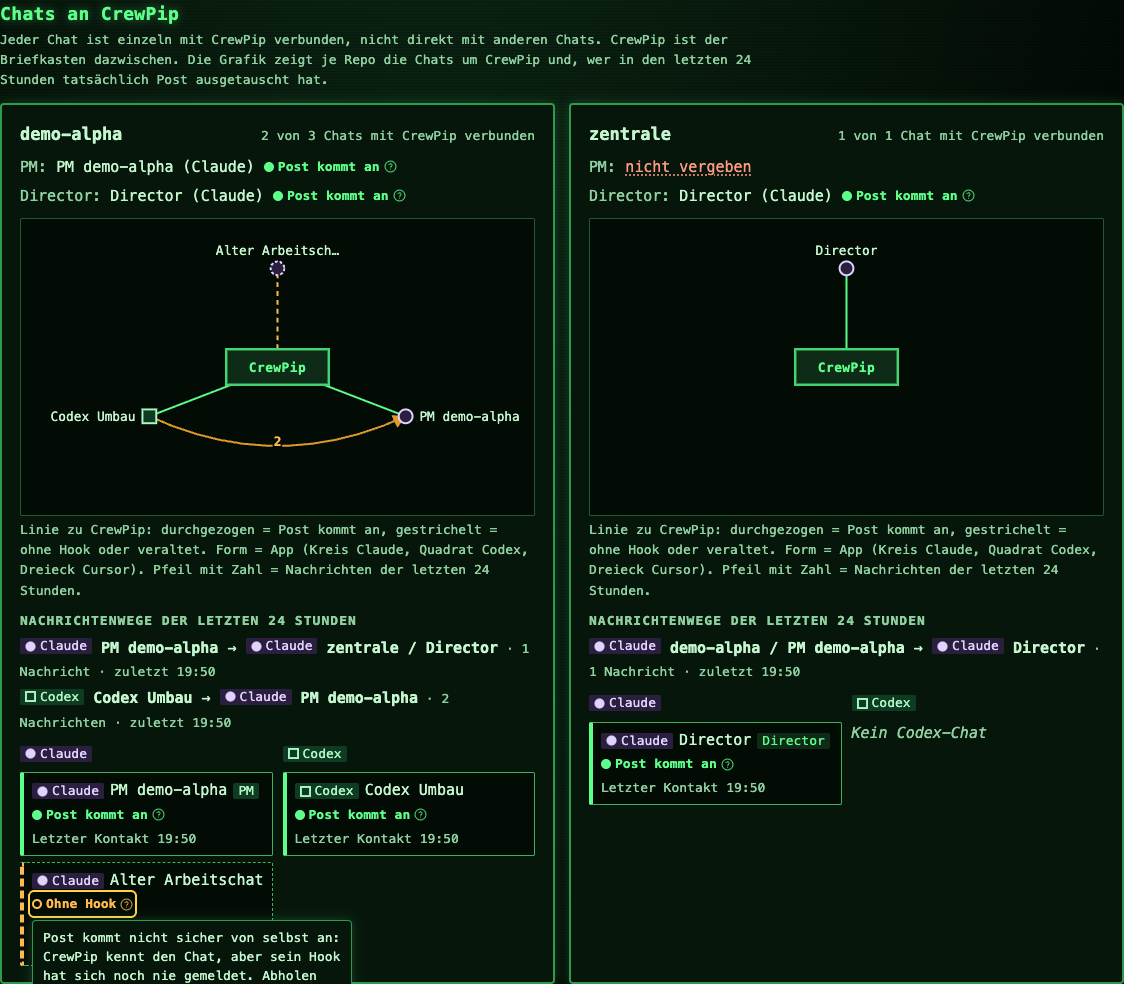
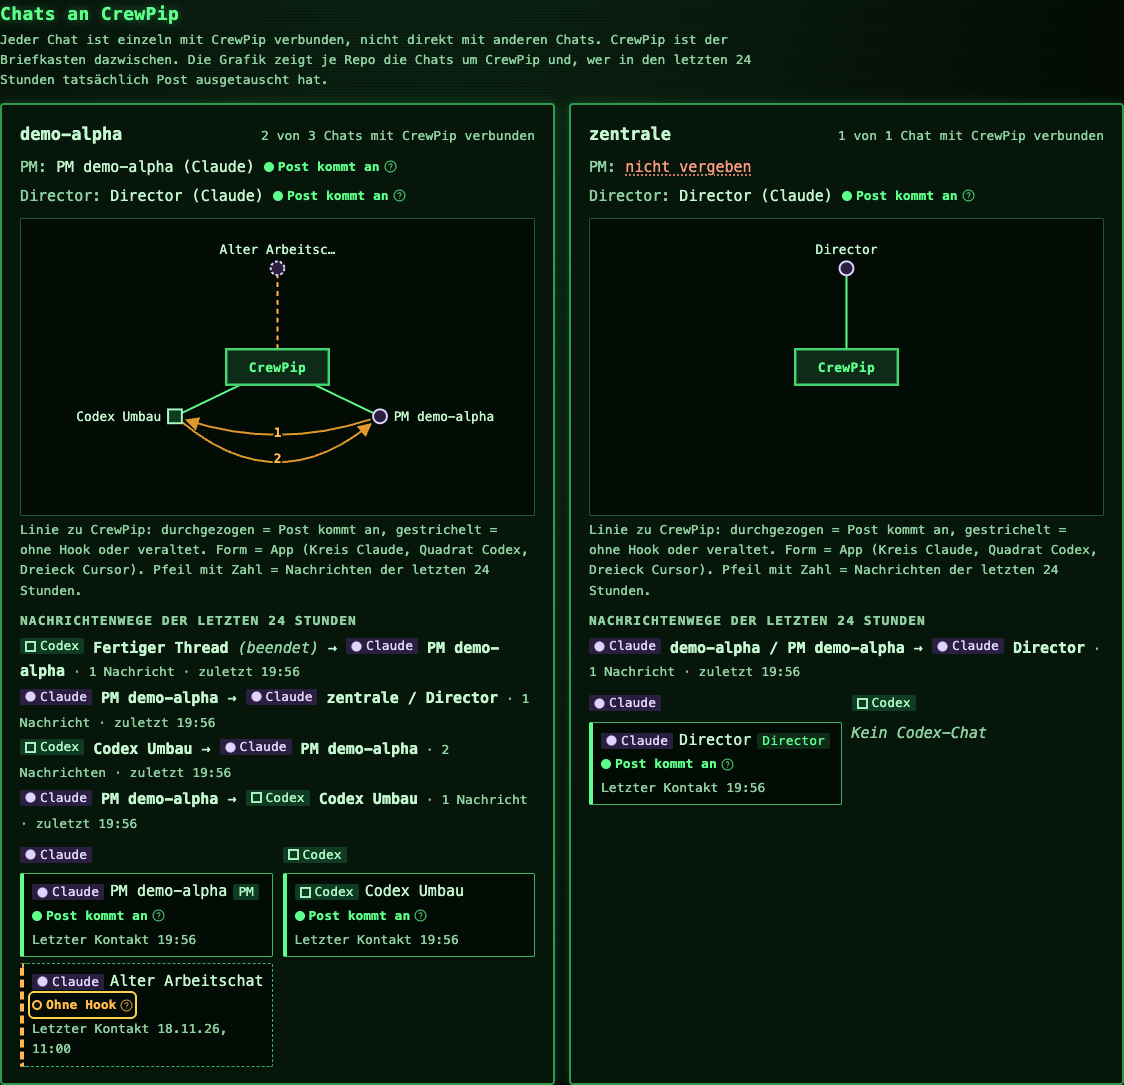
Review-Befunde: Kantenschlüssel, Hin- und Rückweg, gebündeltes Nachladen, beendete Chats, Tooltip mit Escape, scrollbare Grafik (#15)

diff --git a/apps/web/src/Connections.tsx b/apps/web/src/Connections.tsx
@@ -1,4 +1,4 @@
-import { useId } from "react";
+import { useId, useState } from "react";
 import { APP_LABELS, ROLE_LABELS, type AppKind, type MessageFlow, type Project, type Session } from "@crewpip/shared";
 import { CircleHelp } from "lucide-react";
 import { useBoardLanguage } from "./language.tsx";
@@ -18,8 +18,11 @@ const time = (iso: string, locale: string) => {
 function StateBadge({ session }: { session: Session }) {
   const { ui } = useBoardLanguage();
   const id = `conn-hint-${useId().replace(/[^\w-]/g, "")}`;
-  return <span className="conn-state-wrap">
-    <span tabIndex={0} className={`conn-state conn-${session.connection}`} aria-describedby={id}><i aria-hidden="true" />{ui.connectionState[session.connection]}<CircleHelp size={13} aria-hidden="true" /></span>
+  // Escape blendet die Erklärung aus (WCAG 1.4.13); beim nächsten Fokus oder Hovern ist sie wieder da.
+  const [hidden, setHidden] = useState(false);
+  return <span className={`conn-state-wrap ${hidden ? "tip-hidden" : ""}`} onMouseLeave={() => setHidden(false)}>
+    <span tabIndex={0} className={`conn-state conn-${session.connection}`} aria-describedby={id}
+      onKeyDown={e => { if (e.key === "Escape") setHidden(true); }} onBlur={() => setHidden(false)}><i aria-hidden="true" />{ui.connectionState[session.connection]}<CircleHelp size={13} aria-hidden="true" /></span>
     <span role="tooltip" id={id} className="conn-tip">{ui.connectionHint[session.connection]}</span>
   </span>;
 }
@@ -41,28 +44,40 @@ const short = (s: string, n = 15) => s.length > n ? `${s.slice(0, n - 1)}…` : 
 function StarGraph({ name, sessions, flows }: { name: string; sessions: Session[]; flows: MessageFlow[] }) {
   const { ui } = useBoardLanguage();
   const W = 520, H = 300, cx = W / 2, cy = H / 2, rx = 120, ry = 100;
+  // Ab neun Chats abwechselnd auf zwei Ringen, damit Symbole und Namen nicht übereinander liegen.
+  const twoRings = sessions.length > 8;
   const pos = new Map(sessions.map((s, i) => {
     const a = -Math.PI / 2 + (2 * Math.PI * i) / Math.max(sessions.length, 1);
-    return [s.id, { x: cx + rx * Math.cos(a), y: cy + ry * Math.sin(a), a }];
+    const f = twoRings && i % 2 ? 0.62 : 1;
+    return [s.id, { x: cx + rx * f * Math.cos(a), y: cy + ry * f * Math.sin(a), a }];
   }));
-  const edges = flows.filter(f => f.from.kind === "session" && pos.has(f.from.id) && pos.has(f.to.id) && f.from.id !== f.to.id);
+  const edges = flows.flatMap(f => f.from.kind === "session" && pos.has(f.from.id) && pos.has(f.to.id) && f.from.id !== f.to.id ? [{ from: f.from.id, to: f.to.id, count: f.count }] : []);
+  const pairs = new Set(edges.map(e => `${e.from}>${e.to}`));
   const markerId = `arrow-${useId().replace(/[^\w-]/g, "")}`;
-  return <div className="graph-scroll"><svg className="conn-graph" viewBox={`0 0 ${W} ${H}`} role="img" aria-label={ui.graphLabel(name, sessions.length, edges.length)}>
+  return <div className="graph-scroll" tabIndex={0} role="group" aria-label={ui.graphScroll}><svg className="conn-graph" viewBox={`0 0 ${W} ${H}`} role="img" aria-label={ui.graphLabel(name, sessions.length, edges.length)}>
     <defs><marker id={markerId} viewBox="0 0 10 10" refX="9" refY="5" markerWidth="7" markerHeight="7" orient="auto-start-reverse"><path d="M0,0 L10,5 L0,10 z" className="graph-arrow" /></marker></defs>
     {sessions.map(s => { const p = pos.get(s.id)!; return <line key={s.id} className={`graph-spoke conn-${s.connection}`} x1={cx} y1={cy} x2={p.x} y2={p.y} />; })}
-    {edges.map(f => {
-      const a = pos.get(f.from.kind === "session" ? f.from.id : "")!, b = pos.get(f.to.id)!;
+    {edges.map(e => {
+      const a = pos.get(e.from)!, b = pos.get(e.to)!;
       const mx = (a.x + b.x) / 2, my = (a.y + b.y) / 2;
-      let dx = mx - cx, dy = my - cy;
-      const len = Math.hypot(dx, dy);
-      // Bogen nach außen, damit er nicht durch die Nabe läuft; gegenüberliegende Chats: seitlich.
-      const opposite = len < 20;
-      if (opposite) { dx = -(b.y - a.y); dy = b.x - a.x; }
-      const k = (opposite ? 110 : 60) / (Math.hypot(dx, dy) || 1);
-      const qx = mx + dx * k, qy = my + dy * k;
-      return <g key={`${a.x},${b.x},${f.to.id}`} className="graph-edge">
-        <path d={`M${a.x},${a.y} Q${qx},${qy} ${b.x},${b.y}`} markerEnd={`url(#${markerId})`} />
-        <text x={(mx + qx) / 2} y={(my + qy) / 2} className="graph-count">{f.count}</text>
+      // Gemeinsame Normale je Paar (unabhängig von der Richtung); Hin- und Rückweg liegen auf
+      // verschiedenen Seiten, damit sich Bögen und Zahlen nicht verdecken.
+      const [p, q] = e.from < e.to ? [a, b] : [b, a];
+      const dl = Math.hypot(q.x - p.x, q.y - p.y) || 1;
+      const nx = -(q.y - p.y) / dl, ny = (q.x - p.x) / dl;
+      const side = pairs.has(`${e.to}>${e.from}`) ? (e.from < e.to ? 1 : -1) : 0;
+      let ox = mx - cx, oy = my - cy;
+      const ol = Math.hypot(ox, oy);
+      let bend: number;
+      if (ol < 20) { ox = nx; oy = ny; bend = 110 * (side || 1); }
+      else { ox /= ol; oy /= ol; bend = 60; }
+      const qx = mx + ox * bend + nx * side * 26, qy = my + oy * bend + ny * side * 26;
+      // Anfang und Ende vor dem Knotensymbol, damit die Pfeilspitze sichtbar bleibt.
+      const cut = (from: { x: number; y: number }, by: number) => { const l = Math.hypot(qx - from.x, qy - from.y) || 1; return { x: from.x + ((qx - from.x) / l) * by, y: from.y + ((qy - from.y) / l) * by }; };
+      const s0 = cut(a, 10), s1 = cut(b, 12);
+      return <g key={`${e.from}>${e.to}`} className="graph-edge">
+        <path d={`M${s0.x},${s0.y} Q${qx},${qy} ${s1.x},${s1.y}`} markerEnd={`url(#${markerId})`} />
+        <text x={(mx + qx) / 2} y={(my + qy) / 2 + 4} className="graph-count">{e.count}</text>
       </g>;
     })}
     <g className="graph-hub"><rect x={cx - 52} y={cy - 18} width={104} height={36} /><text x={cx} y={cy + 5}>CrewPip</text></g>
@@ -78,10 +93,10 @@ function StarGraph({ name, sessions, flows }: { name: string; sessions: Session[
   </svg></div>;
 }
 
-function FlowEnd({ end, projectId }: { end: MessageFlow["from"] | MessageFlow["to"]; projectId: string }) {
+function FlowEnd({ end, projectId, live }: { end: MessageFlow["from"] | MessageFlow["to"]; projectId: string; live: Set<string> }) {
   const { ui } = useBoardLanguage();
   if ("kind" in end && end.kind === "human") return <span className="flow-end"><span className="badge app-human">{ui.person}</span> {end.name}</span>;
-  return <span className="flow-end"><AppMark app={end.app} /> <strong>{end.projectId === projectId ? end.name : `${end.project} / ${end.name}`}</strong></span>;
+  return <span className="flow-end"><AppMark app={end.app} /> <strong>{end.projectId === projectId ? end.name : `${end.project} / ${end.name}`}</strong>{!live.has(end.id) && <em className="flow-ended"> ({ui.flowEnded})</em>}</span>;
 }
 
 /**
@@ -91,6 +106,7 @@ function FlowEnd({ end, projectId }: { end: MessageFlow["from"] | MessageFlow["t
 export function Connections({ sessions, projects, projectId, flows }: { sessions: Session[]; projects: Project[]; projectId: string | null; flows: MessageFlow[] }) {
   const { ui, locale } = useBoardLanguage();
   const live = sessions.filter(s => s.connection !== "ended");
+  const liveIds = new Set(live.map(s => s.id));
   const director = live.filter(s => s.role === "director").sort((a, b) => STATE_ORDER[a.connection] - STATE_ORDER[b.connection])[0];
   const groups = new Map<string, { name: string; sessions: Session[] }>();
   for (const s of live) {
@@ -119,7 +135,7 @@ export function Connections({ sessions, projects, projectId, flows }: { sessions
           <div className="conn-flows"><h4>{ui.flowsTitle}</h4>
             {mine.length
               ? <ul aria-label={ui.flowsTitle}>{mine.map(f => <li key={`${f.from.kind === "session" ? f.from.id : f.from.name}>${f.to.id}`}>
-                  <FlowEnd end={f.from} projectId={id} /> <span aria-hidden="true">→</span><span className="sr-only">{ui.flowTo}</span> <FlowEnd end={f.to} projectId={id} />
+                  <FlowEnd end={f.from} projectId={id} live={liveIds} /> <span aria-hidden="true">→</span><span className="sr-only">{ui.flowTo}</span> <FlowEnd end={f.to} projectId={id} live={liveIds} />
                   <span className="flow-meta"> · {ui.flowCount(f.count)} · {ui.flowLast} {time(f.lastAt, locale)}</span>
                 </li>)}</ul>
               : <p className="conn-empty">{ui.noFlows}</p>}

diff --git a/apps/daemon/test/browser/connections-graph.ts b/apps/daemon/test/browser/connections-graph.ts
@@ -40,6 +40,13 @@ before(async () => {
   inbox.post({ sessionId: "cx" }, "pm:demo-alpha", "geheimer Befundtext");
   inbox.post({ sessionId: "cx" }, "pm:demo-alpha", "zweiter Befund");
   inbox.take("pm", "hook-prompt");
+  // Antwort zurück (Hin- und Rückweg) und ein inzwischen beendeter Chat mit Weg zum PM.
+  inbox.post({ sessionId: "pm" }, "session:cx", "Antwort");
+  inbox.take("cx", "hook-stop");
+  inbox.upsertSession({ id: "gone", app: "codex", cwd: "/nirgends/demo-alpha", name: "Fertiger Thread" });
+  inbox.post({ sessionId: "gone" }, "pm:demo-alpha", "erledigt");
+  inbox.take("pm", "hook-prompt");
+  inbox.endSession("gone");
   inbox.post({ sessionId: "pm" }, "director", "Stand");
   inbox.take("dir", "mcp-read");
   daemon = createDaemon(inbox, board, runner, {
@@ -53,6 +60,8 @@ after(async () => { await browser?.close(); await daemon?.close(); });
 
 test("Übersicht: Verbindung zu CrewPip, Anbieter erkennbar, Zustände erklärt, Nachrichtenwege", async () => {
   const page = await browser.newPage({ locale: "de-AT", viewport: { width: 1440, height: 1600 } });
+  const consoleErrors: string[] = [];
+  page.on("console", m => { if (m.type() === "error") consoleErrors.push(m.text()); });
   try {
     await page.goto(url);
     const panel = page.getByRole("region", { name: "Chats an CrewPip" });
@@ -71,13 +80,18 @@ test("Übersicht: Verbindung zu CrewPip, Anbieter erkennbar, Zustände erklärt,
     const svg = await graph.innerHTML();
     assert.match(svg, />CrewPip</);
     assert.equal(await graph.locator(".graph-spoke").count(), 3, "eine Speiche je Chat");
-    assert.equal(await graph.locator(".graph-edge").count(), 1, "eine Kante für den Weg innerhalb des Repos");
+    assert.equal(await graph.locator(".graph-edge").count(), 2, "Hin- und Rückweg innerhalb des Repos, der beendete Chat ohne Knoten");
+    const paths = await graph.locator(".graph-edge path").evaluateAll(els => els.map(e => e.getAttribute("d")));
+    const labels = await graph.locator(".graph-count").evaluateAll(els => els.map(e => `${e.getAttribute("x")},${e.getAttribute("y")}`));
+    assert.notEqual(paths[0], paths[1], "Hin- und Rückweg verdecken sich nicht");
+    assert.notEqual(labels[0], labels[1], "Zahlen von Hin- und Rückweg liegen nicht übereinander");
 
     // Liste der Wege: Absender, Empfänger, Anzahl, letzter Zeitpunkt, kein Inhalt.
     const flows = alpha.getByRole("list", { name: "Nachrichtenwege der letzten 24 Stunden" });
     const text = await flows.innerText();
     assert.match(text, /Codex Umbau[\s\S]*→[\s\S]*PM demo-alpha[\s\S]*2 Nachrichten[\s\S]*zuletzt/);
     assert.match(text, /PM demo-alpha[\s\S]*→[\s\S]*Director[\s\S]*1 Nachricht/, "Weg zum Director in ein anderes Repo");
+    assert.match(text, /Fertiger Thread \(beendet\)[\s\S]*→[\s\S]*PM demo-alpha/, "Weg eines beendeten Chats ist markiert");
     assert.doesNotMatch(await page.locator("main").innerText(), /geheimer Befundtext/);
 
     // Anbieter: Name und Form, nicht nur Farbe.
@@ -97,6 +111,9 @@ test("Übersicht: Verbindung zu CrewPip, Anbieter erkennbar, Zustände erklärt,
     const tip = page.locator(`#${await state.getAttribute("aria-describedby")}`);
     assert.match(await tip.innerText(), /Post kommt nicht sicher von selbst an/);
     assert.equal(await tip.isVisible(), true, "Erklärung sichtbar bei Fokus");
+    await page.keyboard.press("Escape");
+    assert.equal(await tip.isVisible(), false, "Escape blendet die Erklärung aus");
+    assert.equal(await alpha.locator(".graph-scroll").getAttribute("tabindex"), "0", "Grafik per Tastatur scrollbar");
     const pm = alpha.locator(".conn-apps").getByRole("listitem").filter({ hasText: "PM demo-alpha" });
     assert.match(await pm.innerText(), /Post kommt an/);
 
@@ -106,5 +123,6 @@ test("Übersicht: Verbindung zu CrewPip, Anbieter erkennbar, Zustände erklärt,
     await en.waitFor();
     assert.match(await en.innerText(), /Messages arrive/);
     assert.match(await en.getByRole("group", { name: "demo-alpha" }).getByRole("list", { name: "Message paths in the last 24 hours" }).innerText(), /2 messages/);
+    assert.deepEqual(consoleErrors.filter(e => /key/i.test(e)), [], "keine doppelten React-Schlüssel");
   } finally { await page.close(); }
 });

diff --git a/apps/web/src/App.tsx b/apps/web/src/App.tsx
@@ -72,18 +72,27 @@ function Board() {
 
   useEffect(() => {
     let closed = false;
+    let flowTimer: ReturnType<typeof setTimeout> | undefined;
+    let flowSeq = 0;
     let ws: WebSocket | null = null;
     let retry: ReturnType<typeof setTimeout>;
     async function refresh() {
+      const seq = ++flowSeq;
       try {
         const urls = ["/api/messages", "/api/sessions", "/api/tasks?status=open,claimed,review,done,cancelled", "/api/projects", "/api/runs", "/api/flows"];
         const [m, s, t, p, r, f] = await Promise.all(urls.map(async url => { const res = await api(url); if (!res.ok) throw new Error(`Daten konnten nicht geladen werden (${res.status}).`); return res.json(); }));
-        if (!closed) { setMessages(m); setSessions(s); setTasks(t); setProjects(p); setRuns(r); setFlows(f); setLoaded(true); }
+        if (!closed) { setMessages(m); setSessions(s); setTasks(t); setProjects(p); setRuns(r); if (seq === flowSeq) setFlows(f); setLoaded(true); }
       } catch (e) { if (!closed) setError(`${e instanceof Error ? e.message : "Verbindung fehlgeschlagen."} Bitte die Seite neu laden.`); }
     }
     // Nachrichtenwege der letzten 24 Stunden: neu holen bei jeder Zustellung und beim Abgleich.
-    async function loadFlows() {
-      try { const res = await api("/api/flows"); if (res.ok && !closed) setFlows(await res.json()); } catch { /* Anzeige bleibt beim letzten Stand. */ }
+    // Gebündelt: Eine Abholung verbucht bis zu 50 Zustellungen einzeln, geladen wird einmal.
+    // Die Nummer verwirft Antworten, die eine neuere Anfrage überholt hat.
+    function loadFlows() {
+      clearTimeout(flowTimer);
+      flowTimer = setTimeout(async () => {
+        const seq = ++flowSeq;
+        try { const res = await api("/api/flows"); const f = res.ok ? await res.json() : null; if (f && !closed && seq === flowSeq) setFlows(f); } catch { /* Anzeige bleibt beim letzten Stand. */ }
+      }, 300);
     }
     const connect = () => {
       if (closed) return;
@@ -98,7 +107,7 @@ function Board() {
         if (e.type === "projects") setProjects(e.projects);
         if (e.type === "runs") setRuns(e.runs);
         if (e.type === "run-item") setLiveItems(m => ({ ...m, [e.runId]: [...(m[e.runId] ?? []), e.item] }));
-        if (e.type === "delivery") void loadFlows();
+        if (e.type === "delivery") loadFlows();
         if (e.type === "delivery") setMessages(m => m.map(x => x.id !== e.messageId || x.deliveries.some(d => d.sessionId === e.delivery.sessionId) ? x : { ...x, deliveries: [...x.deliveries, e.delivery], pending: x.pending.filter(p => p !== e.delivery.sessionLabel) }));
       };
     };
@@ -106,10 +115,10 @@ function Board() {
     // regelmäßig neu holen, damit "verbunden" nicht stehen bleibt, wenn eine App beendet wurde.
     const poll = setInterval(() => {
       void api("/api/sessions").then(res => res.ok ? res.json() : null).then(s => { if (s && !closed) setSessions(s); }).catch(() => {});
-      void loadFlows();
+      loadFlows();
     }, 30000);
     void refresh(); connect();
-    return () => { closed = true; clearTimeout(retry); clearInterval(poll); ws?.close(); };
+    return () => { closed = true; clearTimeout(retry); clearTimeout(flowTimer); clearInterval(poll); ws?.close(); };
   }, []);
   // CLI sign-in probes can take seconds. Do not block the overview on them.
   useEffect(() => {

diff --git a/apps/web/src/styles.css b/apps/web/src/styles.css
@@ -540,8 +540,13 @@ input, select, textarea { border-radius: 2px; border: 1px solid var(--border-str
 .conn-state:focus-visible { outline: 2px solid var(--focus); outline-offset: 2px; }
 .conn-tip { display: none; position: absolute; z-index: 20; left: 0; top: calc(100% + 6px); width: max-content; max-width: min(320px, 80vw);
   background: var(--panel); color: var(--text); border: 1px solid var(--frame); border-radius: 4px; padding: 8px 10px; font-size: 13px; font-weight: 400; line-height: 1.45; box-shadow: var(--glow); }
-.conn-state:hover + .conn-tip, .conn-state:focus + .conn-tip { display: block; }
+.conn-state-wrap:hover .conn-tip, .conn-state:focus + .conn-tip { display: block; }
+.conn-state-wrap.tip-hidden .conn-tip { display: none; }
+/* Brücke über den Abstand, damit die Erklärung beim Hinüberfahren mit der Maus offen bleibt. */
+.conn-tip::before { content: ""; position: absolute; left: 0; right: 0; top: -8px; height: 8px; }
 .conn-chat-head .app-mark { flex-shrink: 0; }
+.graph-scroll:focus-visible { outline: 2px solid var(--focus); outline-offset: 2px; }
+.flow-ended { color: var(--muted); }
 .graph-scroll { overflow-x: auto; margin: 6px 0 2px; border: 1px solid var(--border); border-radius: 2px; background: var(--bg); }
 .conn-graph { display: block; width: 100%; min-width: 460px; height: auto; }
 .conn-graph text { font-family: var(--font-body); font-size: 13px; fill: var(--text); }

diff --git a/apps/web/src/locales/de.ts b/apps/web/src/locales/de.ts
@@ -64,6 +64,8 @@ export const de = {
   flowTo: "an",
   flowCount: (n: number) => n === 1 ? "1 Nachricht" : `${n} Nachrichten`,
   flowLast: "zuletzt",
+  flowEnded: "beendet",
+  graphScroll: "Verbindungsgrafik, bei schmalem Fenster seitlich scrollbar",
   noFlows: "Keine zugestellten Nachrichten in den letzten 24 Stunden.",
   noAppChat: (app: string) => `Kein ${app}-Chat`,
   lastContact: "Letzter Kontakt",
@@ -220,7 +222,7 @@ export const de = {
       connected: "Mit CrewPip verbunden: Der Hook hat sich gemeldet und das Programm läuft. Post kommt beim nächsten Turn an, auch wenn der Chat gerade ruht.",
       "no-hook": "CrewPip kennt den Chat, aber sein Hook hat sich noch nie gemeldet. Ob Post von selbst ankommt, ist offen; sicher abholen kann der Chat sie mit `read_inbox` oder `wait_for_message`.",
       stale: "Das Programm des Chats läuft nicht mehr. Der Eintrag ist liegen geblieben.",
-      ended: "Ausgetragen. Erscheint nicht in der Übersicht.",
+      ended: "Ausgetragen. Erscheint nicht mehr als Chat in der Übersicht; seine Nachrichtenwege der letzten 24 Stunden bleiben mit dem Vermerk „beendet“ in der Liste.",
     },
     fixTitle: (noHook: string) => `„${noHook}“ beheben`,
     fix: (connected: string) => [

diff --git a/apps/web/src/locales/en.ts b/apps/web/src/locales/en.ts
@@ -64,6 +64,8 @@ export const en = {
   flowTo: "to",
   flowCount: (n: number) => n === 1 ? "1 message" : `${n} messages`,
   flowLast: "last",
+  flowEnded: "ended",
+  graphScroll: "Connection diagram, scrolls sideways in narrow windows",
   noFlows: "No delivered messages in the last 24 hours.",
   noAppChat: (app: string) => `No ${app} chat`,
   lastContact: "Last contact",
@@ -252,7 +254,7 @@ export const en = {
       connected: "Connected to CrewPip: the hook has reported and the app is running. Messages arrive at the next turn, even while the chat is idle.",
       "no-hook": "CrewPip knows the chat, but its hook has never reported. Whether messages arrive on their own is uncertain; the chat can always fetch them with `read_inbox` or `wait_for_message`.",
       stale: "The chat's app is no longer running. The entry was left behind.",
-      ended: "Unregistered. Not shown in the overview.",
+      ended: "Unregistered. No longer shown as a chat in the overview; its message paths from the last 24 hours stay in the list, marked “ended”.",
     },
     fixTitle: (noHook: string) => `Fixing “${noHook}”`,
     fix: (connected: string) => [

diff --git a/docs/kommunikation.md b/docs/kommunikation.md
@@ -77,7 +77,7 @@ genaue Regel steht in [verbindung.md](verbindung.md).
 | Post kommt an | Mit CrewPip verbunden: Der Hook hat sich gemeldet und das Programm läuft. Post kommt beim nächsten Turn an, auch wenn der Chat gerade ruht. |
 | Ohne Hook | CrewPip kennt den Chat, aber sein Hook hat sich noch nie gemeldet. Ob Post von selbst ankommt, ist offen; sicher abholen kann der Chat sie mit `read_inbox` oder `wait_for_message`. |
 | Veraltet | Das Programm des Chats läuft nicht mehr. Der Eintrag ist liegen geblieben. |
-| Beendet | Ausgetragen. Erscheint nicht in der Übersicht. |
+| Beendet | Ausgetragen. Erscheint nicht mehr als Chat in der Übersicht; seine Nachrichtenwege der letzten 24 Stunden bleiben mit dem Vermerk „beendet“ in der Liste. |
 
 „Ohne Hook“ beheben:
 

diff --git a/docs/communication.md b/docs/communication.md
@@ -76,7 +76,7 @@ is documented in [verbindung.md](verbindung.md) (German).
 | Messages arrive | Connected to CrewPip: the hook has reported and the app is running. Messages arrive at the next turn, even while the chat is idle. |
 | Without hook | CrewPip knows the chat, but its hook has never reported. Whether messages arrive on their own is uncertain; the chat can always fetch them with `read_inbox` or `wait_for_message`. |
 | Stale | The chat's app is no longer running. The entry was left behind. |
-| Ended | Unregistered. Not shown in the overview. |
+| Ended | Unregistered. No longer shown as a chat in the overview; its message paths from the last 24 hours stay in the list, marked “ended”. |
 
 Fixing “Without hook”:
 
